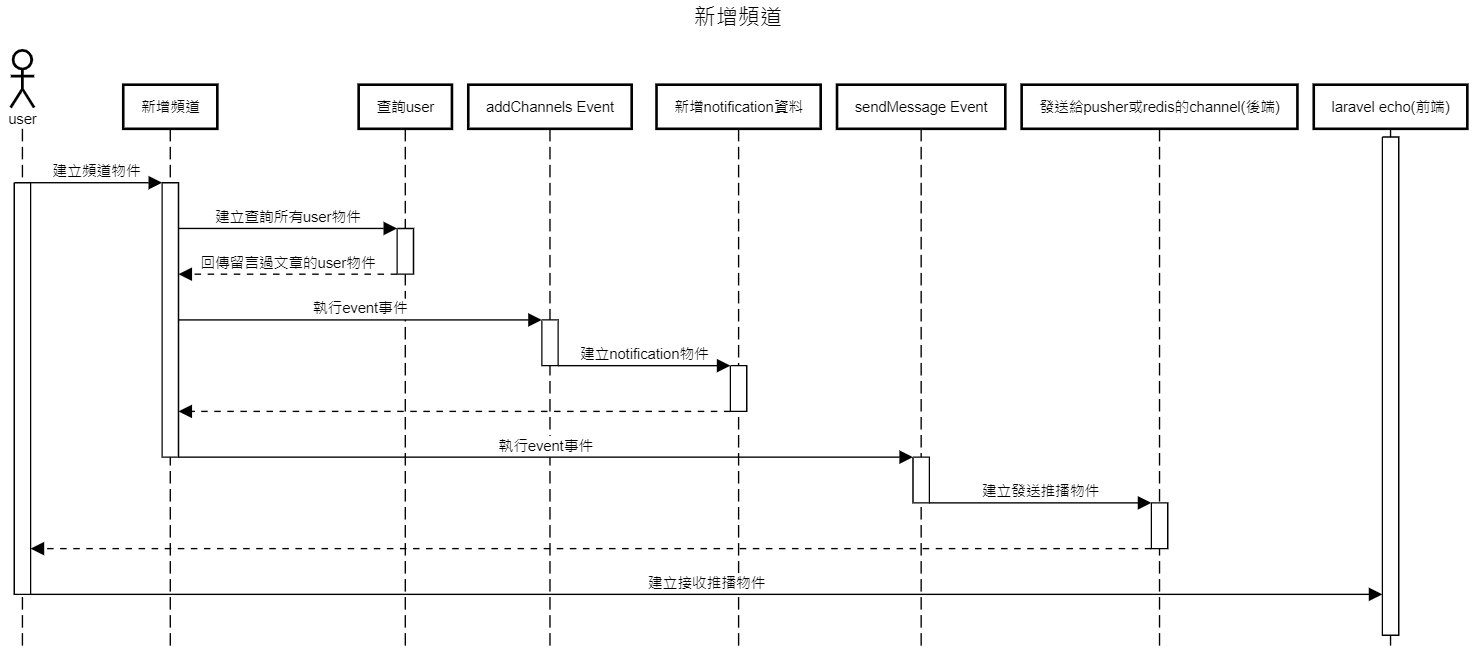
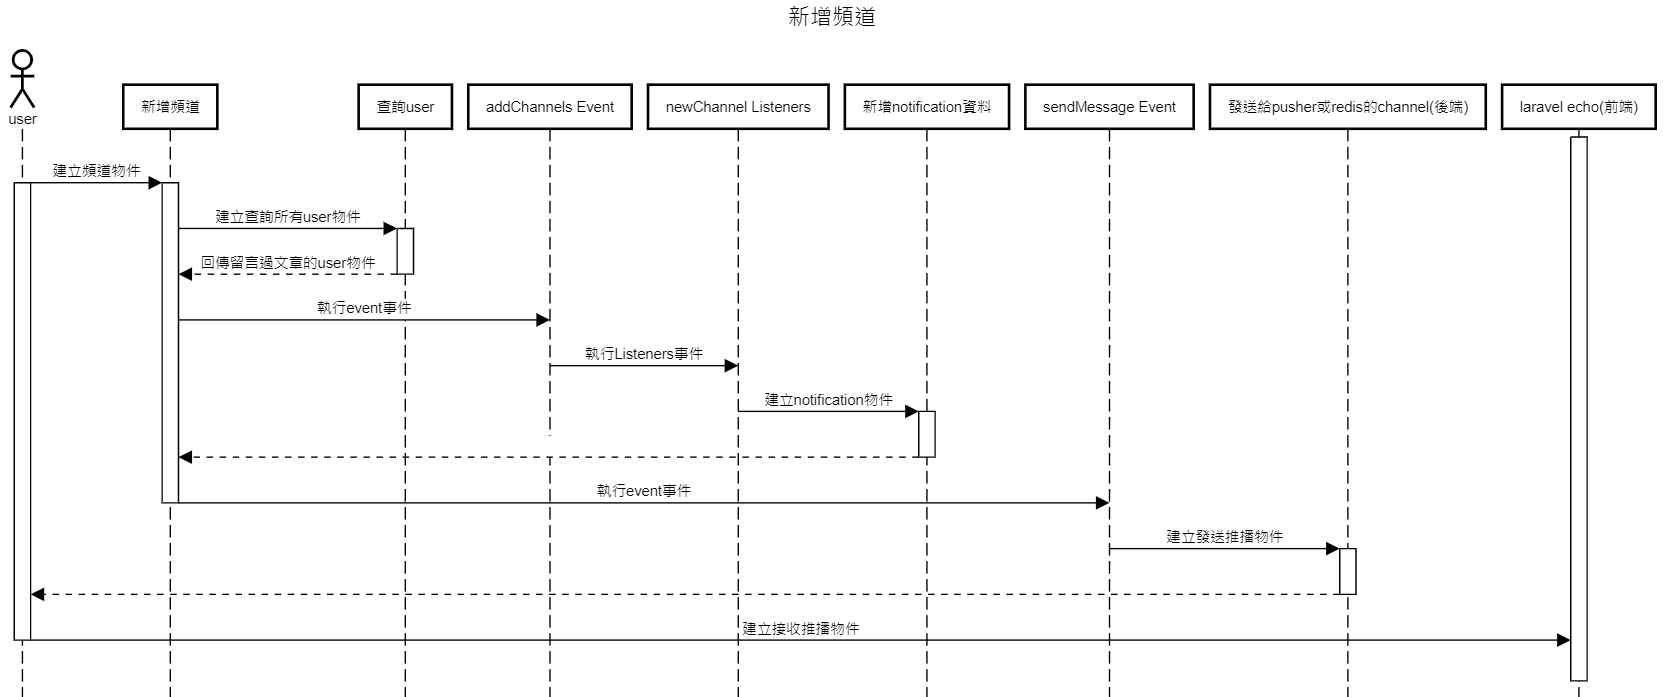
:memo: 更新文件

diff --git a/實做文章通知功能.md b/實做文章通知功能.md
@@ -88,8 +88,8 @@ participant user
 participant 新增文章
 participant 查詢user
 participant addArticles Event
+participant newArticle Listeners
 participant 新增notification資料
-
 
 user->新增文章:建立文章物件
 activate user
@@ -99,13 +99,11 @@ activate 查詢user
 新增文章<--查詢user:回傳所有user物件
 deactivate 查詢user
 新增文章->addArticles Event:執行event事件
-activate addArticles Event
-addArticles Event->新增notification資料:建立notification物件
-deactivate addArticles Event
-activate 新增notification資料
-新增文章<--新增notification資料:
-user<--新增文章:
 deactivate 新增文章
+addArticles Event->newArticle Listeners:執行Listeners事件
+newArticle Listeners->新增notification資料:建立notification物件
+activate 新增notification資料
+user<--新增notification資料:
 deactivate 新增notification資料
 deactivate user
 ```
@@ -120,11 +118,11 @@ participant user
 participant 留言
 participant 查詢user
 participant addComment Event
+participant newArticle Listeners
 participant 新增notification資料
 participant sendMessage Event
 participant 發送給pusher或redis的channel(後端)
 activate laravel echo(前端)
-
 user->留言:建立留言物件
 activate user
 activate 留言
@@ -133,22 +131,19 @@ activate 查詢user
 留言<--查詢user:回傳留言過文章的user物件
 deactivate 查詢user
 留言->addComment Event:執行event事件
-activate addComment Event
-addComment Event->新增notification資料:建立notification物件
-deactivate addComment Event
+addComment Event->newArticle Listeners:執行Listeners事件
+newArticle Listeners->新增notification資料:建立notification物件
+
 activate 新增notification資料
 留言<--新增notification資料:
 deactivate 新增notification資料
 留言->sendMessage Event:執行event事件
 deactivate 留言
-activate sendMessage Event
 sendMessage Event->發送給pusher或redis的channel(後端):建立發送推播物件
-deactivate sendMessage Event
 activate 發送給pusher或redis的channel(後端)
 user<--發送給pusher或redis的channel(後端):
 deactivate 發送給pusher或redis的channel(後端)
 user->laravel echo(前端):建立接收推播物件
-user<--laravel echo(前端):
 deactivate laravel echo(前端)
 deactivate user
 ```
@@ -163,6 +158,7 @@ participant user
 participant 刪除文章
 participant 查詢user
 participant deleteArticles Event
+participant newArticle Listeners
 participant 新增notification資料
 participant sendMessage Event
 participant 發送給pusher或redis的channel(後端)
@@ -176,17 +172,15 @@ activate 查詢user
 刪除文章<--查詢user:回傳所有user物件
 deactivate 查詢user
 刪除文章->deleteArticles Event:執行event事件
-activate deleteArticles Event
-deleteArticles Event->新增notification資料:建立notification物件
-deactivate deleteArticles Event
+deleteArticles Event->newArticle Listeners:執行Listeners事件
+newArticle Listeners->新增notification資料:建立notification物件
+
 activate 新增notification資料
 刪除文章<--新增notification資料:
 deactivate 新增notification資料
 刪除文章->sendMessage Event:執行event事件
 deactivate 刪除文章
-activate sendMessage Event
 sendMessage Event->發送給pusher或redis的channel(後端):建立發送推播物件
-deactivate sendMessage Event
 activate 發送給pusher或redis的channel(後端)
 user<--發送給pusher或redis的channel(後端):
 deactivate 發送給pusher或redis的channel(後端)
@@ -204,6 +198,7 @@ participant user
 participant 新增頻道
 participant 查詢user
 participant addChannels Event
+participant newChannel Listeners
 participant 新增notification資料
 participant sendMessage Event
 participant 發送給pusher或redis的channel(後端)
@@ -217,17 +212,14 @@ activate 查詢user
 新增頻道<--查詢user:回傳留言過文章的user物件
 deactivate 查詢user
 新增頻道->addChannels Event:執行event事件
-activate addChannels Event
-addChannels Event->新增notification資料:建立notification物件
-deactivate addChannels Event
+addChannels Event->newChannel Listeners:執行Listeners事件
+newChannel Listeners->新增notification資料:建立notification物件
 activate 新增notification資料
 新增頻道<--新增notification資料:
 deactivate 新增notification資料
 新增頻道->sendMessage Event:執行event事件
 deactivate 新增頻道
-activate sendMessage Event
 sendMessage Event->發送給pusher或redis的channel(後端):建立發送推播物件
-deactivate sendMessage Event
 activate 發送給pusher或redis的channel(後端)
 user<--發送給pusher或redis的channel(後端):
 deactivate 發送給pusher或redis的channel(後端)

diff --git a/UML循序圖.md b/UML循序圖.md
@@ -1,0 +1,60 @@
+## UML循序圖
+
+- 什麼是UML循序圖?
+
+  UML為Unifed Modeling Language，是一種標準化的標記語言，能夠讓開發者知道，角色與角色的互動，可以清楚知道，整個系統架構流程。
+
+- 元素介紹
+
+  循序圖是有以下元素組成
+
+  - 角色(Actor)：系統角色，可以是人或者其他系統，子系統。以一個小人圖標表示。
+  - 物件(Object)
+  - 生命線(Lifeline)：每個物件都有一條垂直的虛線，就是物件的生命線。以一條垂直的虛線表。
+  - 控制焦點(Activation)：控制焦點代表物件，在某段時期執行的時間。以一個很窄的矩形表示。
+  - 訊息(Message)
+    - 同步訊息：訊息的傳送者把控制傳遞給訊息的接收者，然後停止活動，等待訊息的接收者放棄或者返回控制。用來表示同步的意義。以一條實線+實心箭頭表示。
+    - 非同步訊息：訊息傳送者通過訊息把訊號傳遞給訊息的接收者，然後繼續自己的活動，不等待接受者返回訊息或者控制。非同步訊息的接收者和傳送者是併發工作的。以一條實線+大於號表示。
+    - 返回訊息：返回訊息表示從過程呼叫返回。以小於號+虛線表示。
+
+- 片段狀態
+
+  1. alt：任何情況只有一個發生的過程
+
+     用alt表示是哪種情境，在一張循序圖可以畫多個alt
+
+     例如：遇到多種突發情況，就會有多個情境，也會有多種循序圖。
+
+  2. par： 平行處理，片段中的事件可以交錯執行
+
+     一個角色可以做不同件事情
+
+     例如：我可以吃飯或吃麵，我可以做兩件事情。
+
+  3. opt：選擇項目，不一定會發生過程
+
+     角色可以選擇要不要做這件事情
+
+     例如：我想要騎機車去上班，但是不一定要騎車，也可以搭捷運，這樣我就可以選擇要不要做
+
+  4. loop：重複片段。可以設立重複的條件
+
+     角色重複做一件事情，沒有限制
+
+     例如：我想要把字寫漂亮一點，要一直練習寫字，寫到自己覺得很漂亮為止。
+
+  5. ref：要跟另一個循序圖做互動
+
+     角色在做某件事的時候，會使用到別的循序圖
+
+     例如：使用者要登入系統時，就會進入系統的循序圖，系統可能判別登入成功或失敗，如果成功後，user可以自行操作系統上功能，所以這會是另一個循序圖
+
+參考資料
+
+- [UML: 循序圖簡介](https://growingdna.com/uml-sequence-diagrams/)
+- [UML時序圖(Sequence Diagram)學習筆記](https://www.itread01.com/content/1547145397.html)
+
+
+
+
+
